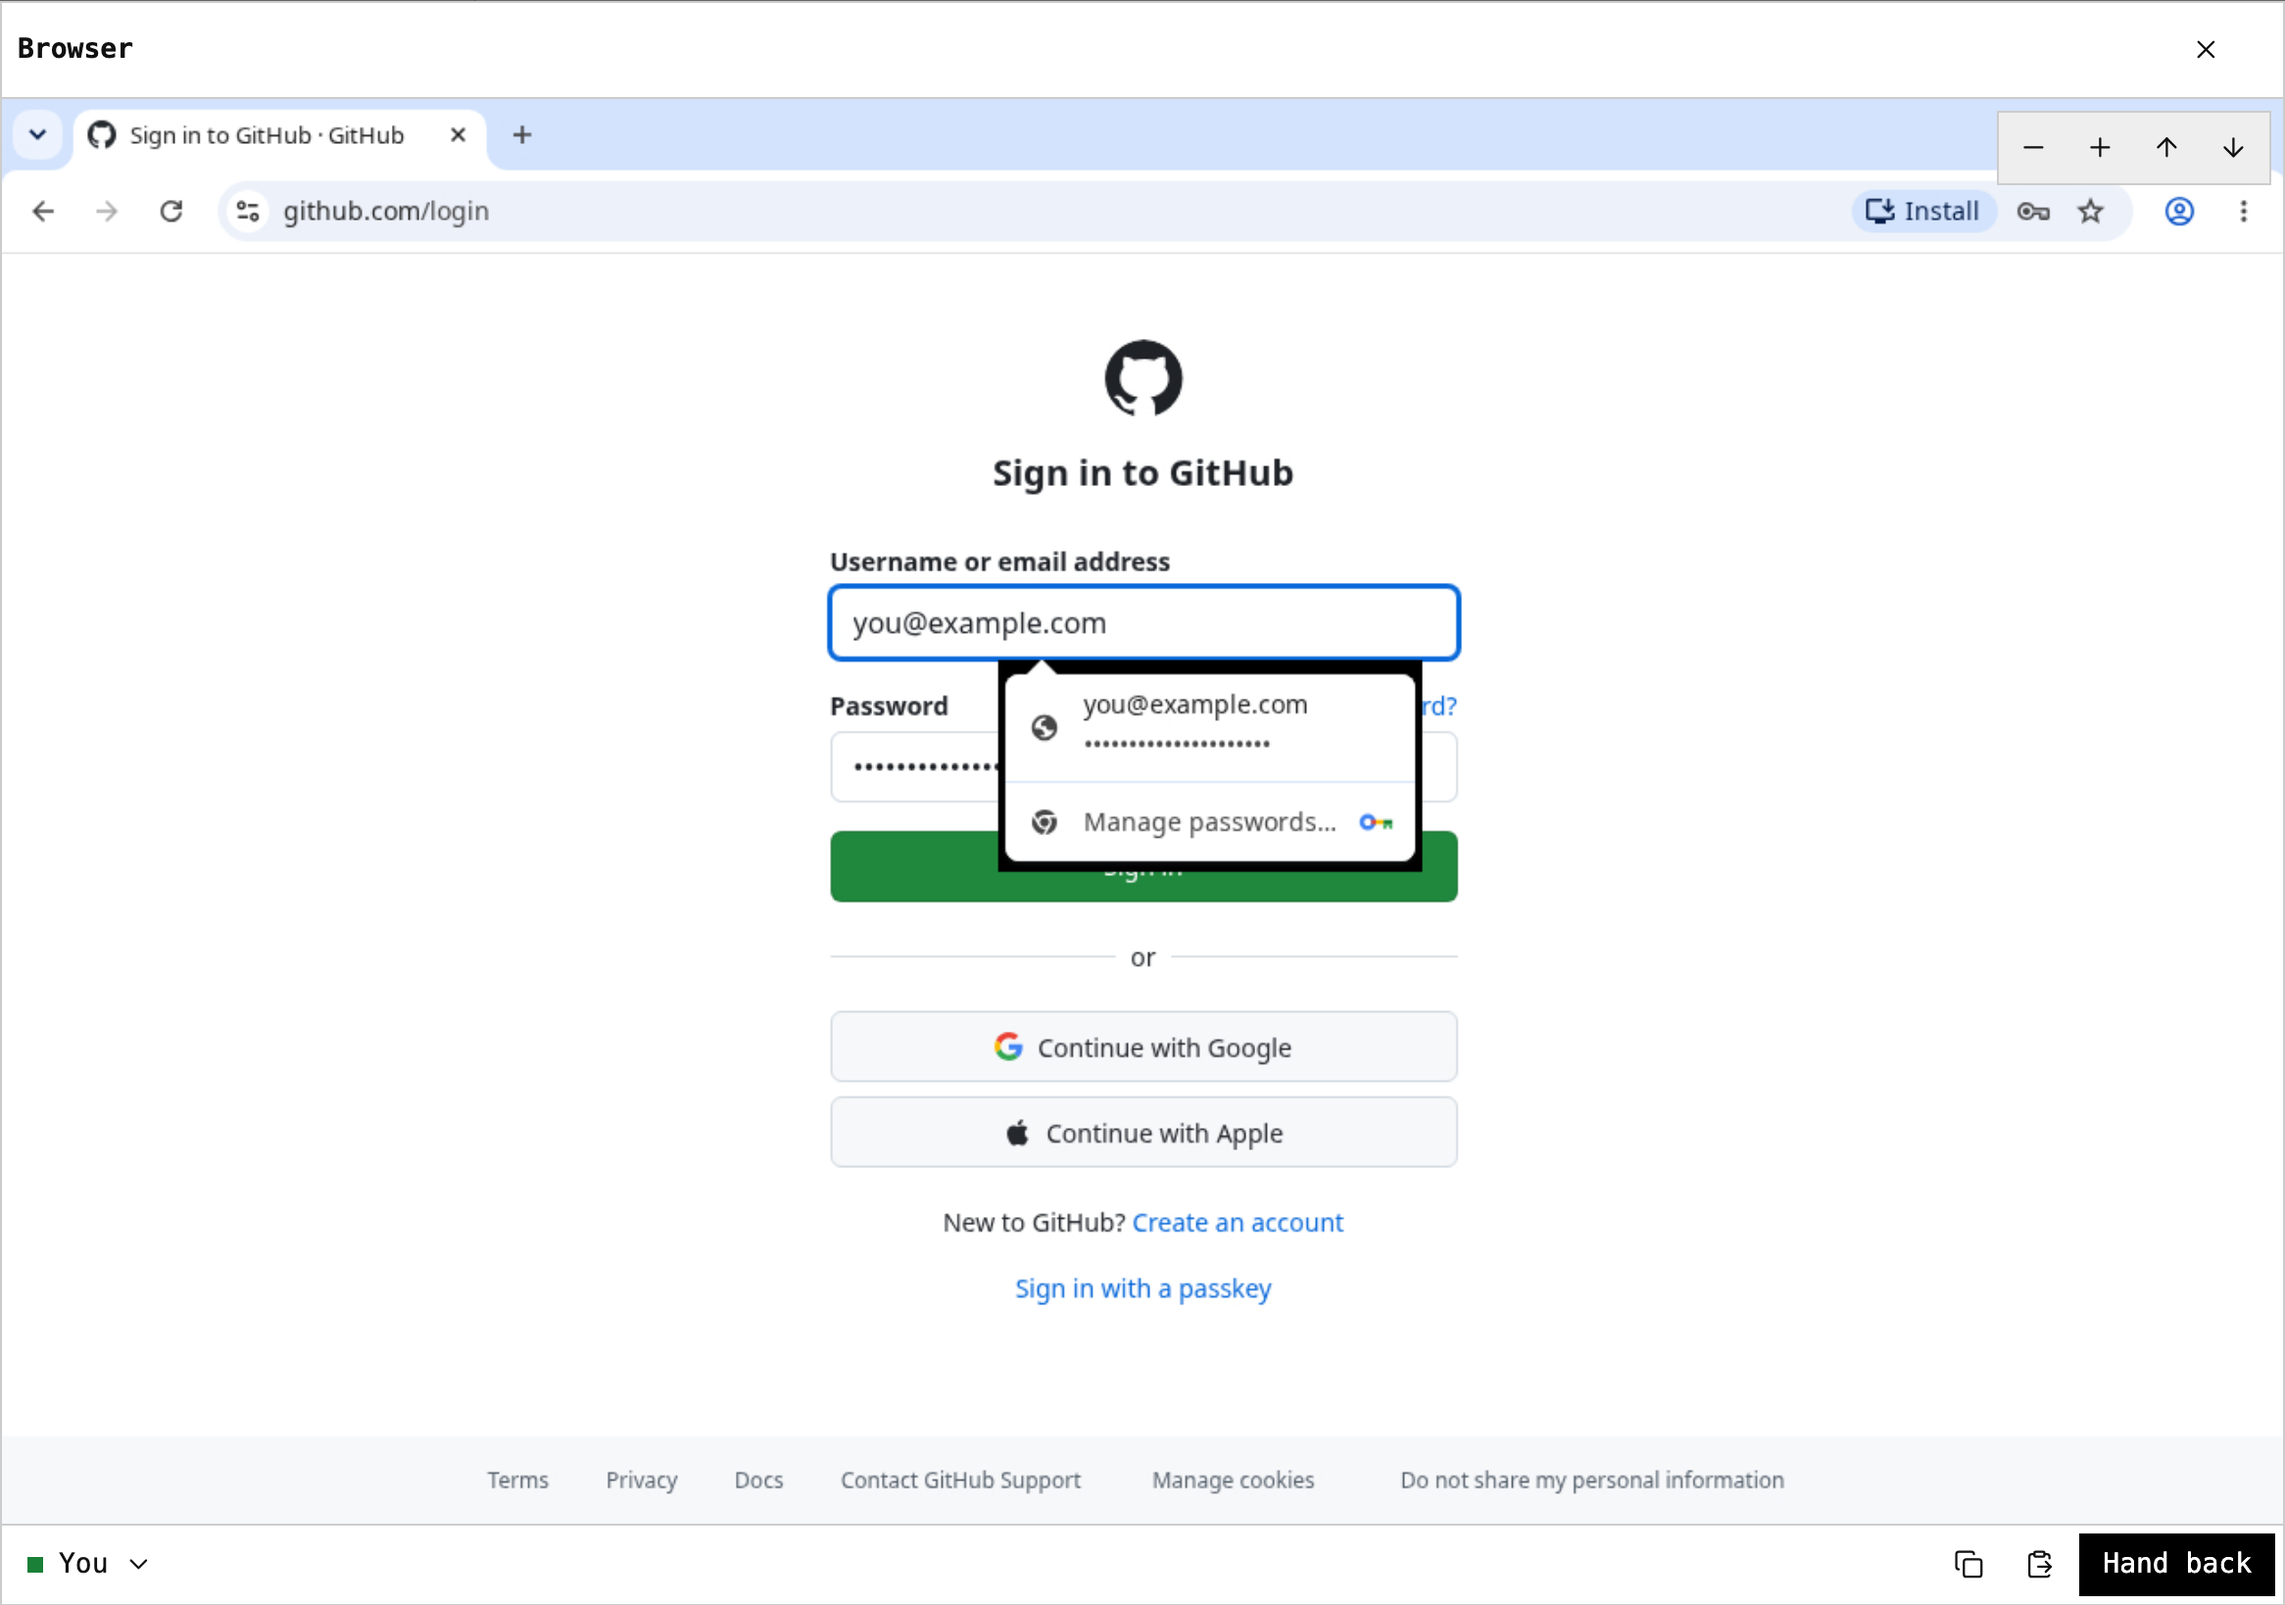
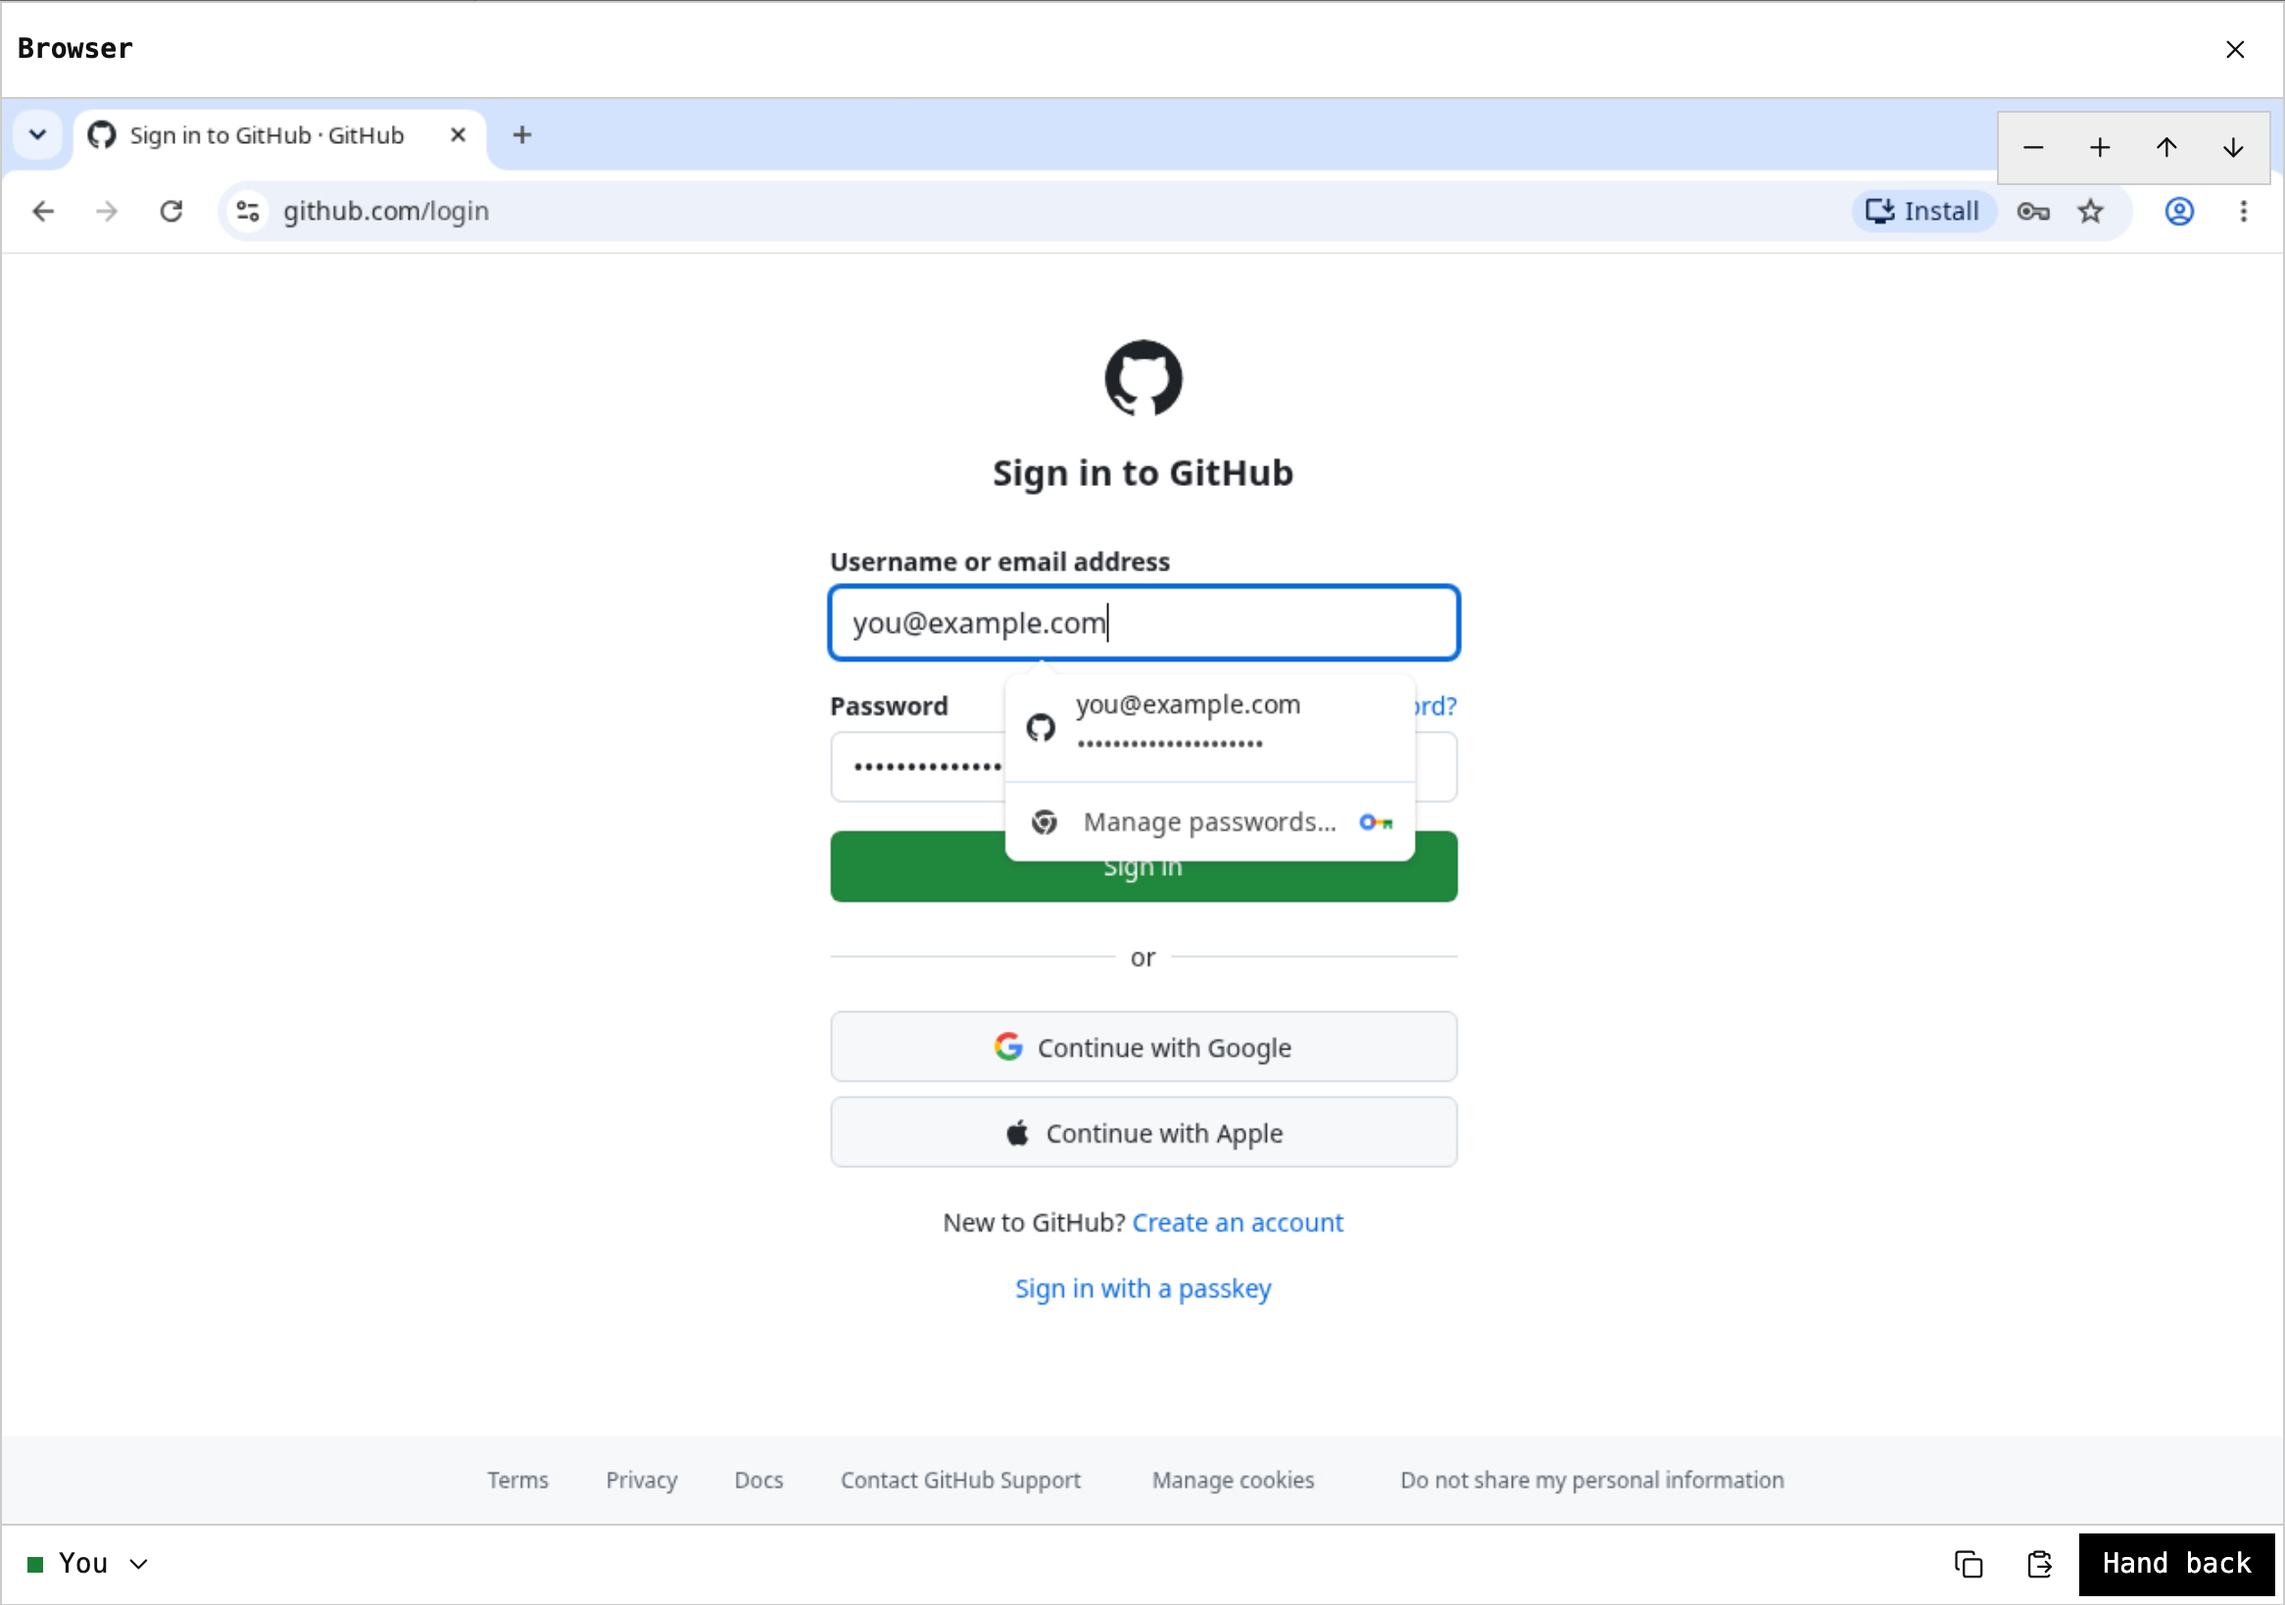
Composite the browser's display so Chrome's popups draw their shadows

Changed region(s): [[0.4322, 0.4048, 0.6484, 0.5604]]

diff --git a/web/recordings/figures/cover.html b/web/recordings/figures/cover.html
@@ -28,9 +28,9 @@
     <figure>
       <figcaption>
         <b>Chrome with your profile</b>
-        The agent drives a real Chrome on a persistent, synced profile over
-        a pipe, with no debugging port. Chrome fills saved logins; the agent
-        reads back only their length.
+        The agent drives a real Chrome on a persistent, synced profile.
+        Chrome fills saved logins; the agent reads only their length. You
+        watch and take over from any paired device over VNC.
       </figcaption>
       <img class="shot" src="{root}/docs/images/browser-sign-in.png" alt="" />
     </figure>

diff --git a/tests/unit/browser_test.cc b/tests/unit/browser_test.cc
@@ -241,7 +241,8 @@ struct FakeBrowser {
   static std::string Install(const std::filesystem::path& bin) {
     namespace fs = std::filesystem;
     fs::create_directory(bin);
-    for (const char* name : {"xauth", "Xtigervnc", "google-chrome-stable"}) {
+    for (const char* name :
+         {"xauth", "Xtigervnc", "xcompmgr", "google-chrome-stable"}) {
       const auto path = bin / name;
       fs::copy_file(fs::path(UAGENT_TEST_SOURCE_DIR) /
                         "tests/fixtures/browser_runtime.py",
@@ -550,7 +551,14 @@ TEST_CASE(TestBrowserProfileSignIn) {
   std::ifstream launches(directory / "profile" / "launches.jsonl");
   std::string launch;
   CHECK(static_cast<bool>(std::getline(launches, launch)));
-  CHECK(json::parse(launch).value("display", "") != ":99");
+  const std::string display = json::parse(launch).value("display", "");
+  CHECK(display != ":99");
+  // The compositing manager runs on the display Chrome draws on.
+  CHECK(WaitUntil(
+      [&] {
+        return ReadFile((directory / "compositor").string(), 64) == display;
+      },
+      BudgetMs(3000)));
   CHECK(runtime.Execute({{"op", "setup_profile"}, {"device", kOther}})
             .contains("error"));
   const auto setup =

diff --git a/src/browser/runtime.cc b/src/browser/runtime.cc
@@ -256,6 +256,7 @@ void Runtime::Stop(bool preserve_lease) {
   cdp_in_.Reset();
   cdp_out_.Reset();
   Terminate(chrome_pid_);
+  Terminate(compositor_pid_);
   Terminate(vnc_pid_);
   profile_lock_.Reset();
   unlink(RfbSocket().c_str());
@@ -388,6 +389,11 @@ bool Runtime::Start(std::string& error, bool profile_setup) {
     error = "Xtigervnc did not create its Unix display socket";
     Stop(true);
     return false;
+  }
+  // Chrome draws its popups' shadows on transparent windows; with no
+  // compositing manager their margins show black.
+  if (ExecutableOnPath("xcompmgr")) {
+    compositor_pid_ = Launch({"xcompmgr"}, {}, environment);
   }
   // Off: pages kept alive for Back (a renderer each) and the search for
   // casting devices on the network.

diff --git a/tests/fixtures/browser_runtime.py b/tests/fixtures/browser_runtime.py
@@ -14,6 +14,10 @@ from pathlib import Path
 name = Path(sys.argv[0]).name
 if name == "xauth":
     sys.exit(0)
+if name == "xcompmgr":
+    # Writes down the display it composites, and waits to be stopped.
+    Path(os.environ["HOME"], "compositor").write_text(os.environ["DISPLAY"])
+    signal.pause()
 if name == "Xtigervnc":
     # A display that takes a viewer's handshake and writes down its keys.
     path = sys.argv[sys.argv.index("-rfbunixpath") + 1]

diff --git a/include/browser/runtime.h b/include/browser/runtime.h
@@ -100,6 +100,7 @@ class Runtime {
   std::string RfbSocket() const;
 
   pid_t vnc_pid_ = -1;
+  pid_t compositor_pid_ = -1;
   pid_t chrome_pid_ = -1;
   Fd profile_lock_, cdp_in_, cdp_out_;
   int64_t next_id_ = 0;

diff --git a/README.md b/README.md
@@ -30,7 +30,7 @@ On a Linux host the agent drives a real Chrome whose profile persists and can be
 - **A real, persistent profile.** `uagent --browser-service` owns Chrome and its virtual display. The profile keeps cookies and saved logins across restarts. **Sign in to profile** restarts Chrome without the agent's control channel, so you can sign Chrome in to your Google account and turn on sync.
 - **Logins are used, not read.** `fill_saved` has Chrome fill the focused field and returns only its length. `type` refuses password fields. Page text shows `(filled)` or `(empty)` for password, one-time-code and card fields, and a screenshot is taken only once password fields are drawn as dots.
 - **No debugging port.** Chrome is driven over CDP on a pipe and the display is a Unix socket. No CDP or VNC TCP port exists. A managed policy blocks Chrome's password and autofill pages, `view-source:` and DevTools.
-- **You can take over.** Every paired device can watch the live screen. **Take over** gives that device the input and pauses the agent until **Done**. For a sign-in, MFA, captcha or payment the agent asks, and only the device that opened the request can finish it.
+- **You connect over VNC.** The display is a VNC server on a Unix socket. The host relays it to the viewer built into the web app, so every paired device can watch the live screen with no VNC port and no VNC client. **Take over** gives that device the input and pauses the agent until **Done**. For a sign-in, MFA, captcha or payment the agent asks, and only the device that opened the request can finish it.
 - **Disposable browsers for research.** Browser scheduling can give conversations 1, 2 or 4 research browsers whose profiles are reset between conversations.
 
 [Browser controls](docs/manual.md#the-agents-browser) · [Browser service: processes, protocol and limits](docs/architecture/browser.md) · [What the profile exposes](SECURITY.md#browser-automation)

diff --git a/docs/architecture/browser.md b/docs/architecture/browser.md
@@ -15,6 +15,8 @@ service bounded requests; the web host relays the display. Chrome is
 driven over CDP on a pipe; no CDP or VNC TCP port exists. It needs Linux
 with `google-chrome-stable`, `Xtigervnc`, `xauth` and `web.browserData`
 (`UAGENT_BROWSER_DATA`) set; remote conversations have no browser tool.
+With `xcompmgr` on the path the display is composited, so Chrome's popups
+draw their shadows; without it their margins are black.
 
 ## Processes and threads
 
@@ -22,7 +24,8 @@ with `google-chrome-stable`, `Xtigervnc`, `xauth` and `web.browserData`
 | --- | --- | --- |
 | `uagent --browser-service` | the web host, `StartService` | its owner pipe (fd 3) closes |
 | `Xtigervnc`, one per instance in use | the service, on the first action or takeover | idle stop, `stop`, profile switch, service exit |
-| `google-chrome-stable`, one per instance in use | the service, after Xvnc | as Xvnc |
+| `xcompmgr`, one per instance in use, when installed | the service, after Xvnc | as Xvnc |
+| `google-chrome-stable`, one per instance in use | the service, after the compositor | as Xvnc |
 | `chrome-update --loop` | `deploy/start.sh`, container only | the container |
 
 The service gets a fixed environment: `PATH` of `<data>/chrome/bin`, where a

diff --git a/docs/manual.md b/docs/manual.md
@@ -48,7 +48,8 @@ and [Execution gateway](architecture/execution-gateway.md).
 ## The agent's browser
 
 On a Linux web host with `web.browserData` set (the container sets it),
-the agent drives a real Chrome that every paired device can watch. The
+the agent drives a real Chrome that every paired device can watch. Its
+display is VNC, relayed by the host to a viewer built into the web app. The
 globe button in a conversation's header opens the live screen, read-only.
 **Take over** gives this device the input and pauses the agent's actions
 until **Done** hands back. When the agent asks for a person (a sign-in,

diff --git a/docs/operations/container.md b/docs/operations/container.md
@@ -141,7 +141,8 @@ time it was written; **Check now** runs `chrome-update` once.
 
 On Linux the web host runs the same browser natively:
 
-1. Install `google-chrome-stable`, `Xtigervnc` and `xauth` in a directory
+1. Install `google-chrome-stable`, `Xtigervnc`, `xauth` and `xcompmgr`
+   (without it Chrome's popups have black margins) in a directory
    of the service's fixed `PATH`
    (`/usr/local/sbin:/usr/local/bin:/usr/sbin:/usr/bin:/sbin:/bin`).
 2. Save `web.browserData` as a user setting, so every runtime sees it:
